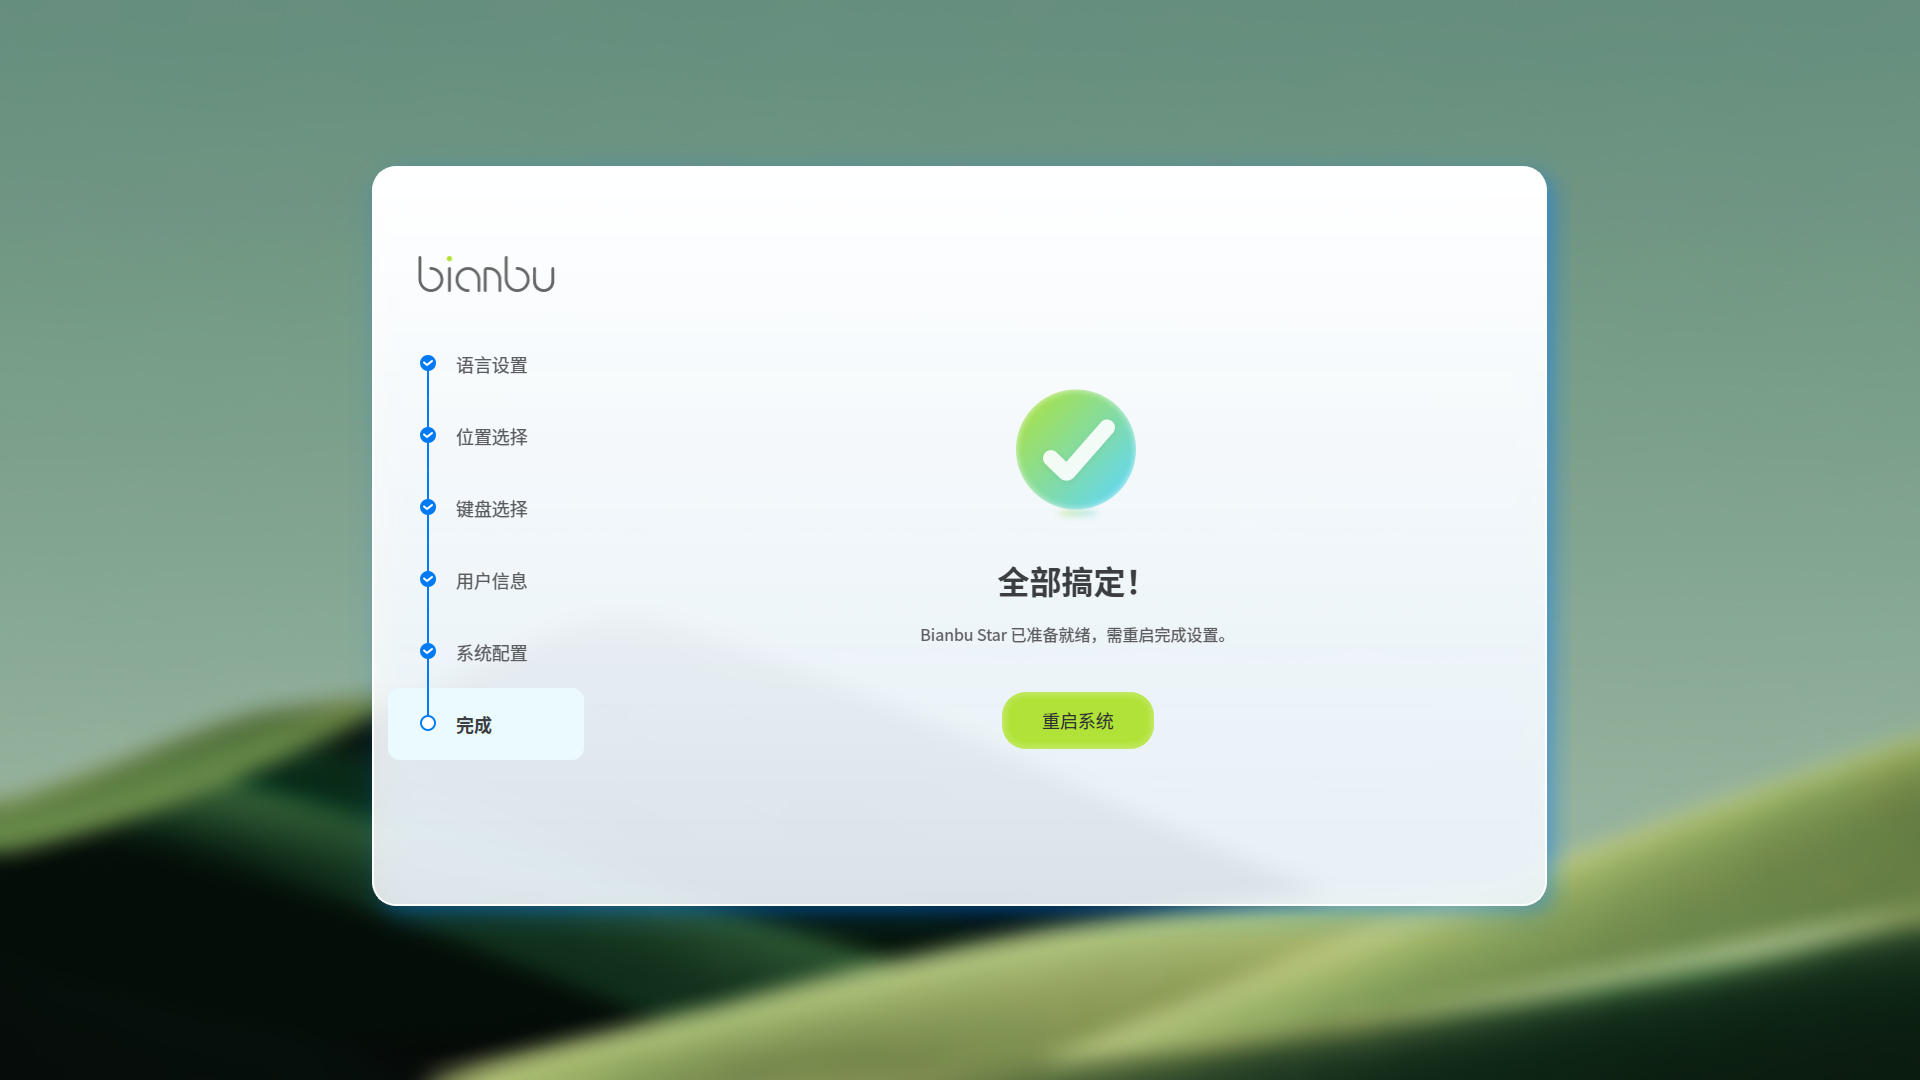
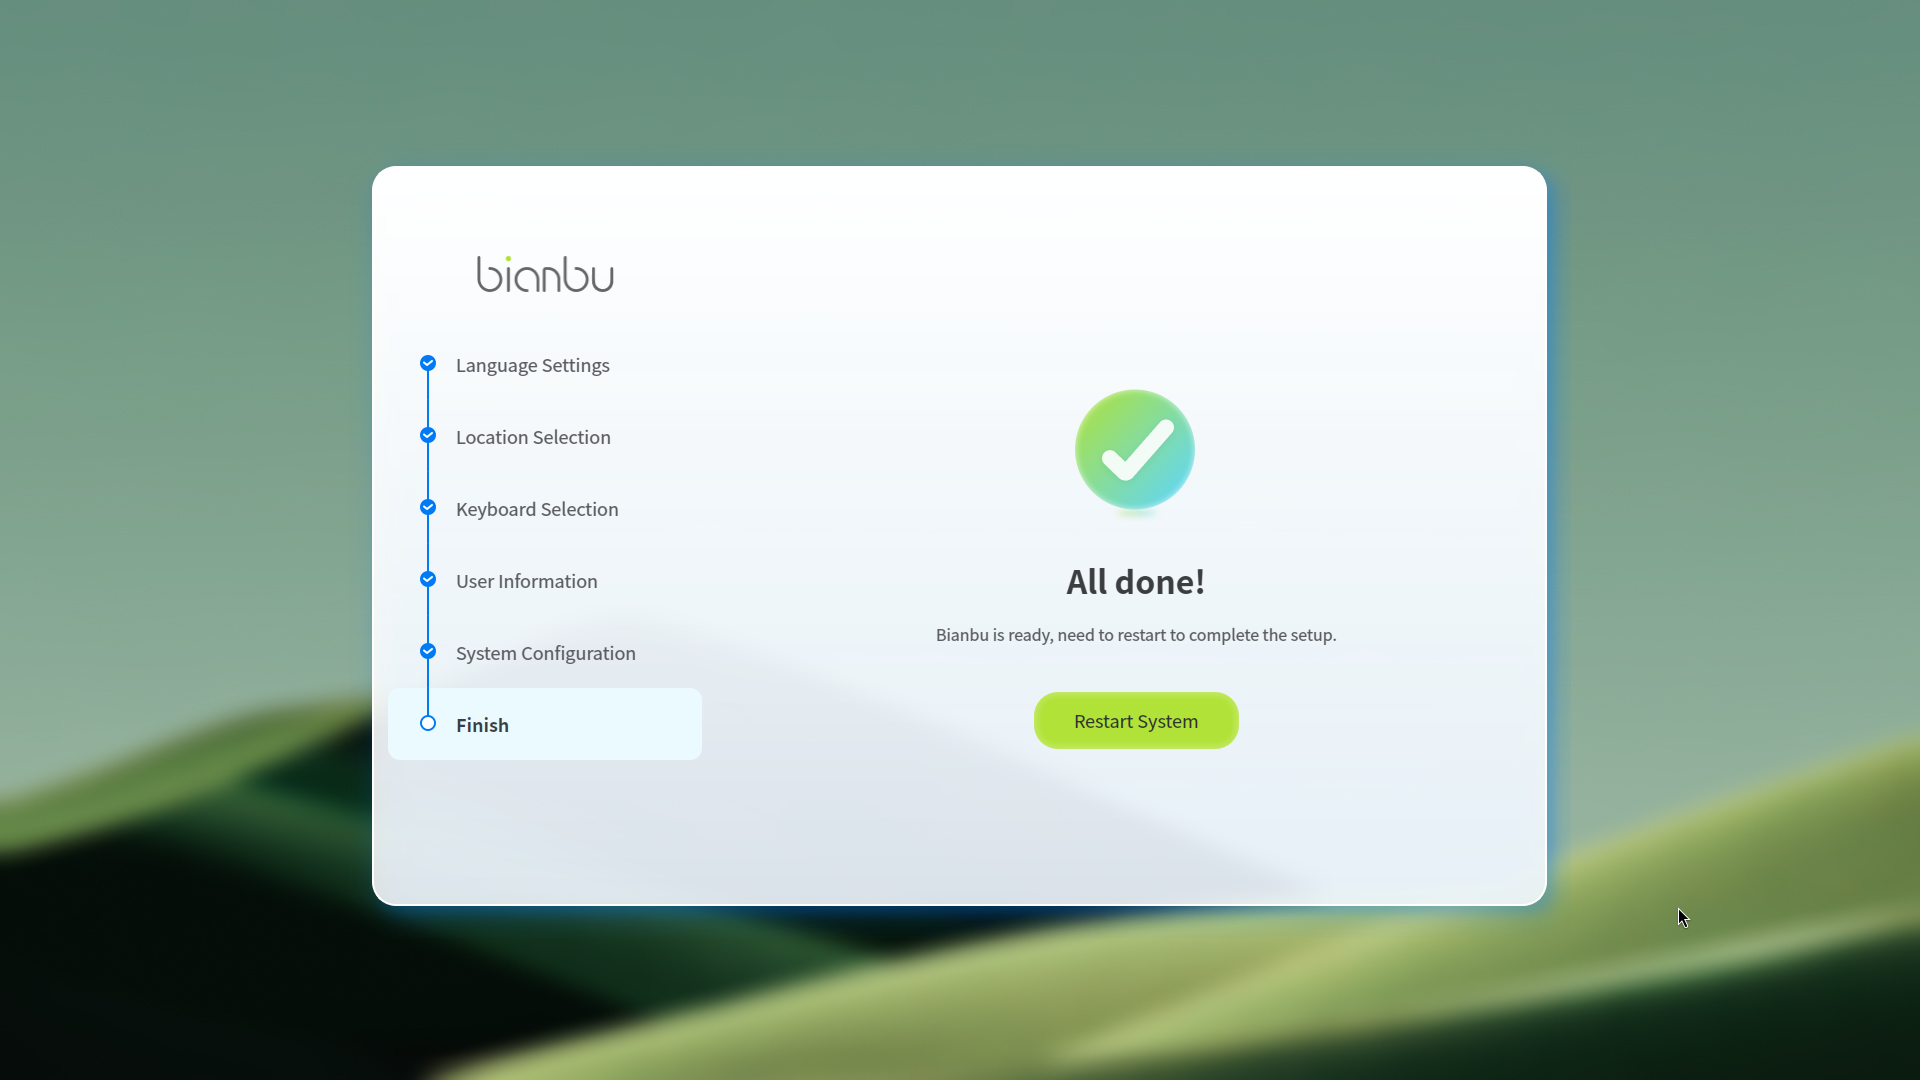
lxqt initial set up updated with english pictures

diff --git a/en/user_guide/LXQt/initial_setup_and_sessions.md b/en/user_guide/LXQt/initial_setup_and_sessions.md
@@ -6,7 +6,7 @@ sidebar_position: 2
 
 This section explains what happens the first time you power on the system and how user sessions work. The startup wizard guides you through basic configuration, including language, location, keyboard layout, and user account setup. After completing the wizard, the system reboots and displays the login screen.
 
-## Startup Wizard (Initial Setup)
+## Startup Wizard
 
 The startup wizard runs automatically on first boot and walks you through the required configuration steps in order.
 
@@ -92,7 +92,7 @@ Before applying the settings, the system displays a confirmation dialog. Once yo
 
 ![Applying configuration](static/installing.png)
 
-The system writes the configuration and prepares the environment. Keep the device powered on to avoid incomplete setup.
+The system writes the configuration and prepares the environment. Do not power off the device during this process.
 
 ## Completing the Setup
 
@@ -111,7 +111,7 @@ When the setup is finished, select **Restart System**. After reboot, the followi
 
 After the system restarts, the login screen appears. Log in using the username and password created during setup.
 
-On the first login, the system may take a short time to initialize user-specific settings. This is normal.
+On the first login, the system may take a short time to initialize user-specific settings — this is normal.
 
 ![Action buttons](static/action-buttons.jpg)
 
@@ -121,8 +121,6 @@ The login screen provides the following actions:
 - **Restart**
 - **Power Off**
 - **Switch User**
-
-Click the corresponding button to perform the desired action.
 
 ### Logging In as a Specific User
 
